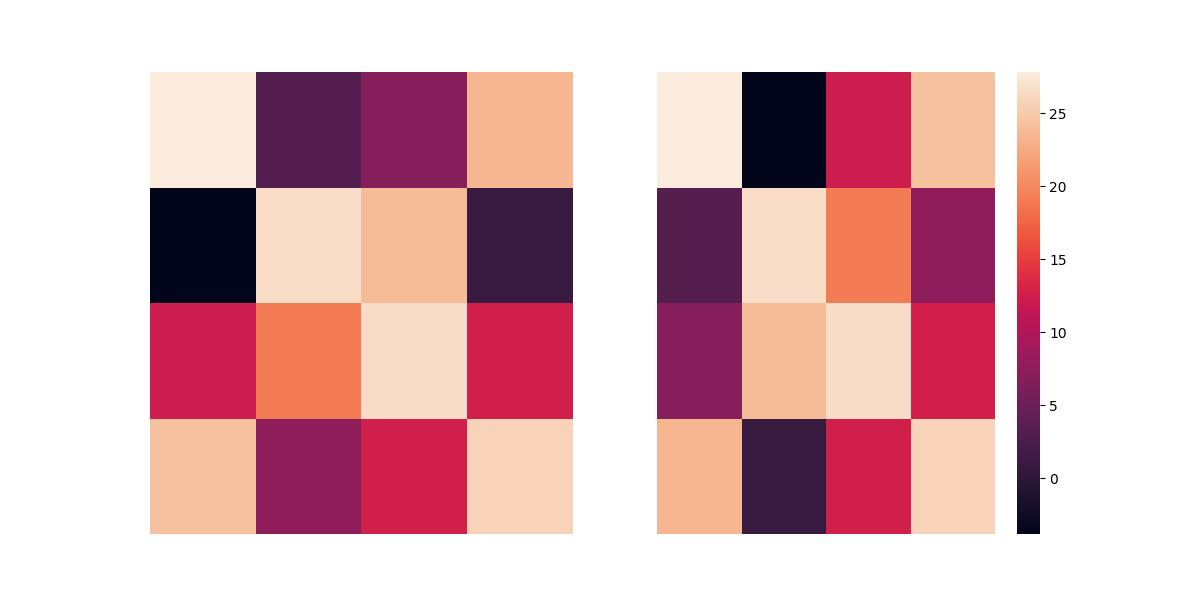
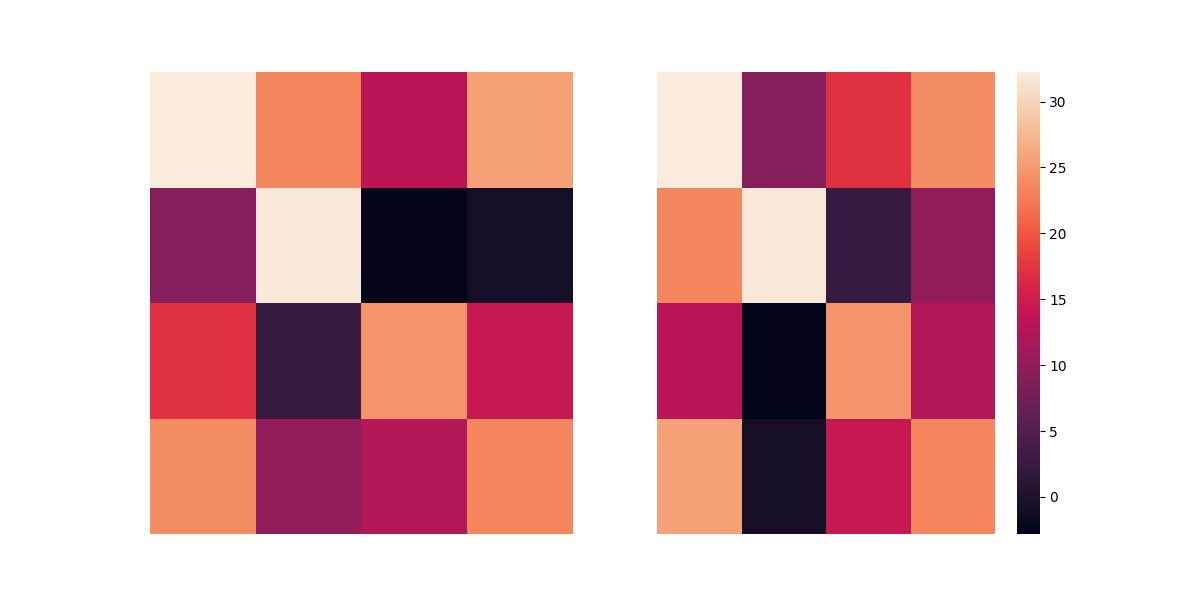
config "LLMD" as the decoder, reach the original result.

diff --git a/examples/GFSLT-VLP/tools/score_slt.py b/examples/GFSLT-VLP/tools/score_slt.py
@@ -1,0 +1,59 @@
+"""
+计算手语翻译论文常用指标：BLEU-1/2/3/4 和 ROUGE-L。
+
+用法（在 examples/GFSLT-VLP 目录下）：
+    python tools/score_slt.py out/dsl_LLMD_bs8/tmp_pres.txt out/dsl_LLMD_bs8/tmp_refs.txt
+
+输入：
+    hyp_file  模型译文，每行一句（--eval 单卡运行时生成的 tmp_pres.txt）
+    ref_file  标准译文，每行一句（tmp_refs.txt），行数必须和 hyp_file 一样
+输出：
+    打印 BLEU-1..4（sacreBLEU 语料级，和训练日志里的 BELU-4 算法相同）
+    以及 ROUGE-L（和 nlg-eval / pycocoevalcap 相同：按句计算 LCS 的 F 值，beta=1.2，再取平均）
+"""
+import sys
+
+from sacrebleu.metrics import BLEU
+
+
+def lcs_length(a, b):
+    """两个词列表的最长公共子序列长度。"""
+    prev = [0] * (len(b) + 1)
+    for x in a:
+        cur = [0]
+        for j, y in enumerate(b):
+            cur.append(prev[j] + 1 if x == y else max(prev[j + 1], cur[j]))
+        prev = cur
+    return prev[-1]
+
+
+def rouge_l(hyp, ref, beta=1.2):
+    """单句 ROUGE-L F 值。"""
+    h, r = hyp.split(), ref.split()
+    if not h or not r:
+        return 0.0
+    lcs = lcs_length(h, r)
+    if lcs == 0:
+        return 0.0
+    prec, rec = lcs / len(h), lcs / len(r)
+    return (1 + beta ** 2) * prec * rec / (rec + beta ** 2 * prec)
+
+
+def main(hyp_file, ref_file):
+    hyps = [line.strip() for line in open(hyp_file, encoding="utf-8")]
+    refs = [line.strip() for line in open(ref_file, encoding="utf-8")]
+    if len(hyps) != len(refs):
+        raise ValueError(f"行数不一致：{hyp_file} 有 {len(hyps)} 行，{ref_file} 有 {len(refs)} 行")
+
+    for n in range(1, 5):
+        score = BLEU(max_ngram_order=n).corpus_score(hyps, [refs]).score
+        print(f"BLEU-{n}: {score:.2f}")
+    rl = 100 * sum(rouge_l(h, r) for h, r in zip(hyps, refs)) / len(hyps)
+    print(f"ROUGE-L: {rl:.2f}")
+    print(f"sentences: {len(hyps)}")
+
+
+if __name__ == "__main__":
+    if len(sys.argv) != 3:
+        sys.exit(__doc__)
+    main(sys.argv[1], sys.argv[2])

diff --git a/examples/GFSLT-VLP/datasets.py b/examples/GFSLT-VLP/datasets.py
@@ -73,6 +73,8 @@ class S2T_Dataset(Dataset.Dataset):
         self.img_path = config['data']['img_path']
         self.phase = phase
         self.max_length = config['data']['max_length']
+        # CSL-Daily 的原始标签没有 text，图片路径也不带视频文件夹名
+        self.is_csl_daily = "CSL-Daily" in path or "CSL-Daily" in self.img_path
 
         self.list = [key for key, value in self.raw_data.items()]
 
@@ -103,12 +105,22 @@ class S2T_Dataset(Dataset.Dataset):
     def __getitem__(self, index):
         key = self.list[index]
         sample = self.raw_data[key]
-        tgt_sample = sample['text']
         length = sample['length']
-
         name_sample = sample['name']
 
-        img_sample = self.load_imgs([self.img_path + x for x in sample['imgs_path']])
+        if self.is_csl_daily:
+            # char 是按字切开的中文翻译，例如「你 们 好 ！」，去掉空格后作为译文
+            tgt_sample = sample['char'].replace(" ", "")
+            # 标签里的 imgs_path 只有 /000000.jpg，真实文件在「视频名/000000.jpg」
+            img_paths = [
+                os.path.join(self.img_path, name_sample, rel_path.lstrip("/"))
+                for rel_path in sample['imgs_path']
+            ]
+        else:
+            tgt_sample = sample['text']
+            img_paths = [self.img_path + rel_path for rel_path in sample['imgs_path']]
+
+        img_sample = self.load_imgs(img_paths)
 
         return name_sample, img_sample, tgt_sample
 

diff --git a/examples/GFSLT-VLP/train_dsl_SignCL.py b/examples/GFSLT-VLP/train_dsl_SignCL.py
@@ -1,3 +1,4 @@
+# 德国手语，对应的是Phoenix-2014T
 # *torch
 from pickletools import optimize
 # from sched import scheduler
@@ -575,8 +576,11 @@ if __name__ == '__main__':
         config = yaml.load(f, Loader=yaml.FullLoader)
 
     os.environ["WANDB_MODE"] = config['training']['wandb'] if not args.eval else 'disabled'
-    if utils.is_main_process():
-        wandb.init(project='GF-SLT', config=config)
+    # 分布式还没初始化时，每张卡都会被当成主进程。用启动时的 RANK，只让第 0 张卡记录。
+    # entity 必须写 swr0311，否则 wandb 会记到账号的默认团队 vera-team。
+    rank = int(os.environ.get("RANK", "0"))
+    if rank == 0:
+        wandb.init(entity='swr0311', project='SignCL-opt-dsl-SLT', config=config)
         wandb.run.name = args.output_dir.split('/')[-1]
         wandb.define_metric("epoch")
         wandb.define_metric("training/*", step_metric="epoch")

diff --git a/examples/GFSLT-VLP/models.py b/examples/GFSLT-VLP/models.py
@@ -446,6 +446,9 @@ def config_decoder(config):
         return MBartForConditionalGeneration.from_pretrained(config['model']['transformer'],
                                                              ignore_mismatched_sizes=True, config=Path(
                 config['model']['transformer'])/'LLMD_config.json')
+        # LD 从 visual_encoder（mytran）加载：3 层编码器 + 3 层解码器。
+        # LLMD 从 transformer（MBart_trimmed）加载，LLMD_config.json 必须是 3 层编码器 + 12 层解码器：
+        # 编码器要和预训练出来的 3 层视觉编码器一致，用 12 层 config.json 会把 9 层没见过手语的文本层叠在视觉特征上。
 
 
 class gloss_free_model(nn.Module):

diff --git a/examples/GFSLT-VLP/train_csl_SignCL.py b/examples/GFSLT-VLP/train_csl_SignCL.py
@@ -1,3 +1,4 @@
+# 中国手语CSL-Daily
 # *torch
 from pickletools import optimize
 # from sched import scheduler

diff --git a/README.md b/README.md
@@ -94,7 +94,16 @@ for epoch in range(num_epochs):
 
 ### B. Usage example for GFSLT-VLP:
 This example code was modified from [GFSLT-VLP GitHub](https://github.com/zhoubenjia/GFSLT-VLP). Please refer to their homepage to set up the environment and dataset.
-
+- To download the "pretrained_models" in GFSLT-VLP GitHub, Ensure that the filenames match those in the configuration. This file is too large to upload to GitHub, so I’ve saved it on the server.
+- `--decoder-type LLMD` uses `MBart_trimmed/LLMD_config.json`: a 3-layer encoder (8 heads, same as the pretrained visual encoder `mytran`) plus the 12-layer mBART decoder. The finetune model has about 264M parameters, matching the authors' log in `out/0630_GF_SignCL/log.txt`. Do not point LLMD at the 12-layer `config.json`: that stacks 9 text-only mBART layers on the 3 pretrained visual layers and Phoenix dev BLEU-4 stalls around 6.
+- CSL-Daily labels are kept unchanged. `datasets.py` treats a path containing `CSL-Daily` as this dataset: the translation text is `char` with spaces removed, and each frame path is `img_path/name/000000.jpg`. Phoenix-2014T still reads `text` and the original `imgs_path`.
+- Phoenix results so far (BLEU-4, single-GPU full eval with `--eval`): LLMD (3-layer encoder + 12-layer decoder), 8 GPUs × batch 2, lr 0.01 → dev 15.72 / test 16.33. sacreBLEU and NLTK corpus BLEU give the same number, so the gap to the paper (~21–22) is real. With `--decoder-type LD` (3+3 layers, loads the pretrained VLP text decoder, as in the GFSLT-VLP paper), dev BLEU-4 is already 8.1 after 2 epochs vs 0.01 for LLMD, so use LD to reproduce the paper on Phoenix.
+- Phoenix test set, best checkpoint, single GPU, `python tools/score_slt.py out/<run>/tmp_pres.txt out/<run>/tmp_refs.txt` (BLEU-1/2/3/4, ROUGE-L):
+  - `dsl_LLMD_bs8` (LLMD, 4 GPUs × batch 2, lr 0.01): 43.99 / 33.19 / 26.02 / 21.22, ROUGE-L 43.92 (dev BLEU-4 21.44)
+  - `dsl_LD_bs8` (LD, same settings): 41.72 / 31.10 / 24.22 / 19.79, ROUGE-L 41.31 (dev BLEU-4 20.69)
+  - These match the paper's GFSLT-VLP baseline row (42.13 / 32.04 / 25.62 / 21.25, ROUGE-L 42.97), not "+ SignCL into Finetuning" (48.56 / 35.04 / 27.73 / 22.16, ROUGE-L 48.17): the pretraining did not backpropagate SignCL, and the finetune SignCL weight was 0 for epochs 0–69 and at most 0.0075 afterwards.
+- `train_dsl_SignCL.py` decays the SignCL weight (`cl_decay × 0.5` every 10 epochs without a 2-point dev gain) even before the 70-epoch warmup ends, so by epoch 70 the SignCL term is ~0.06 × 0.06 and contributes almost nothing.
+- Phoenix finetune logs to the personal W&B account: `train_dsl_SignCL.py` calls `wandb.init(entity='swr0311', project='SignCL-opt-dsl-SLT')`. Only GPU rank 0 creates the run. The page is `https://wandb.ai/swr0311/SignCL-opt-dsl-SLT`. A run already started keeps its old location until training is stopped and started again.
 To execute, use the following command:
 
 ```sh
